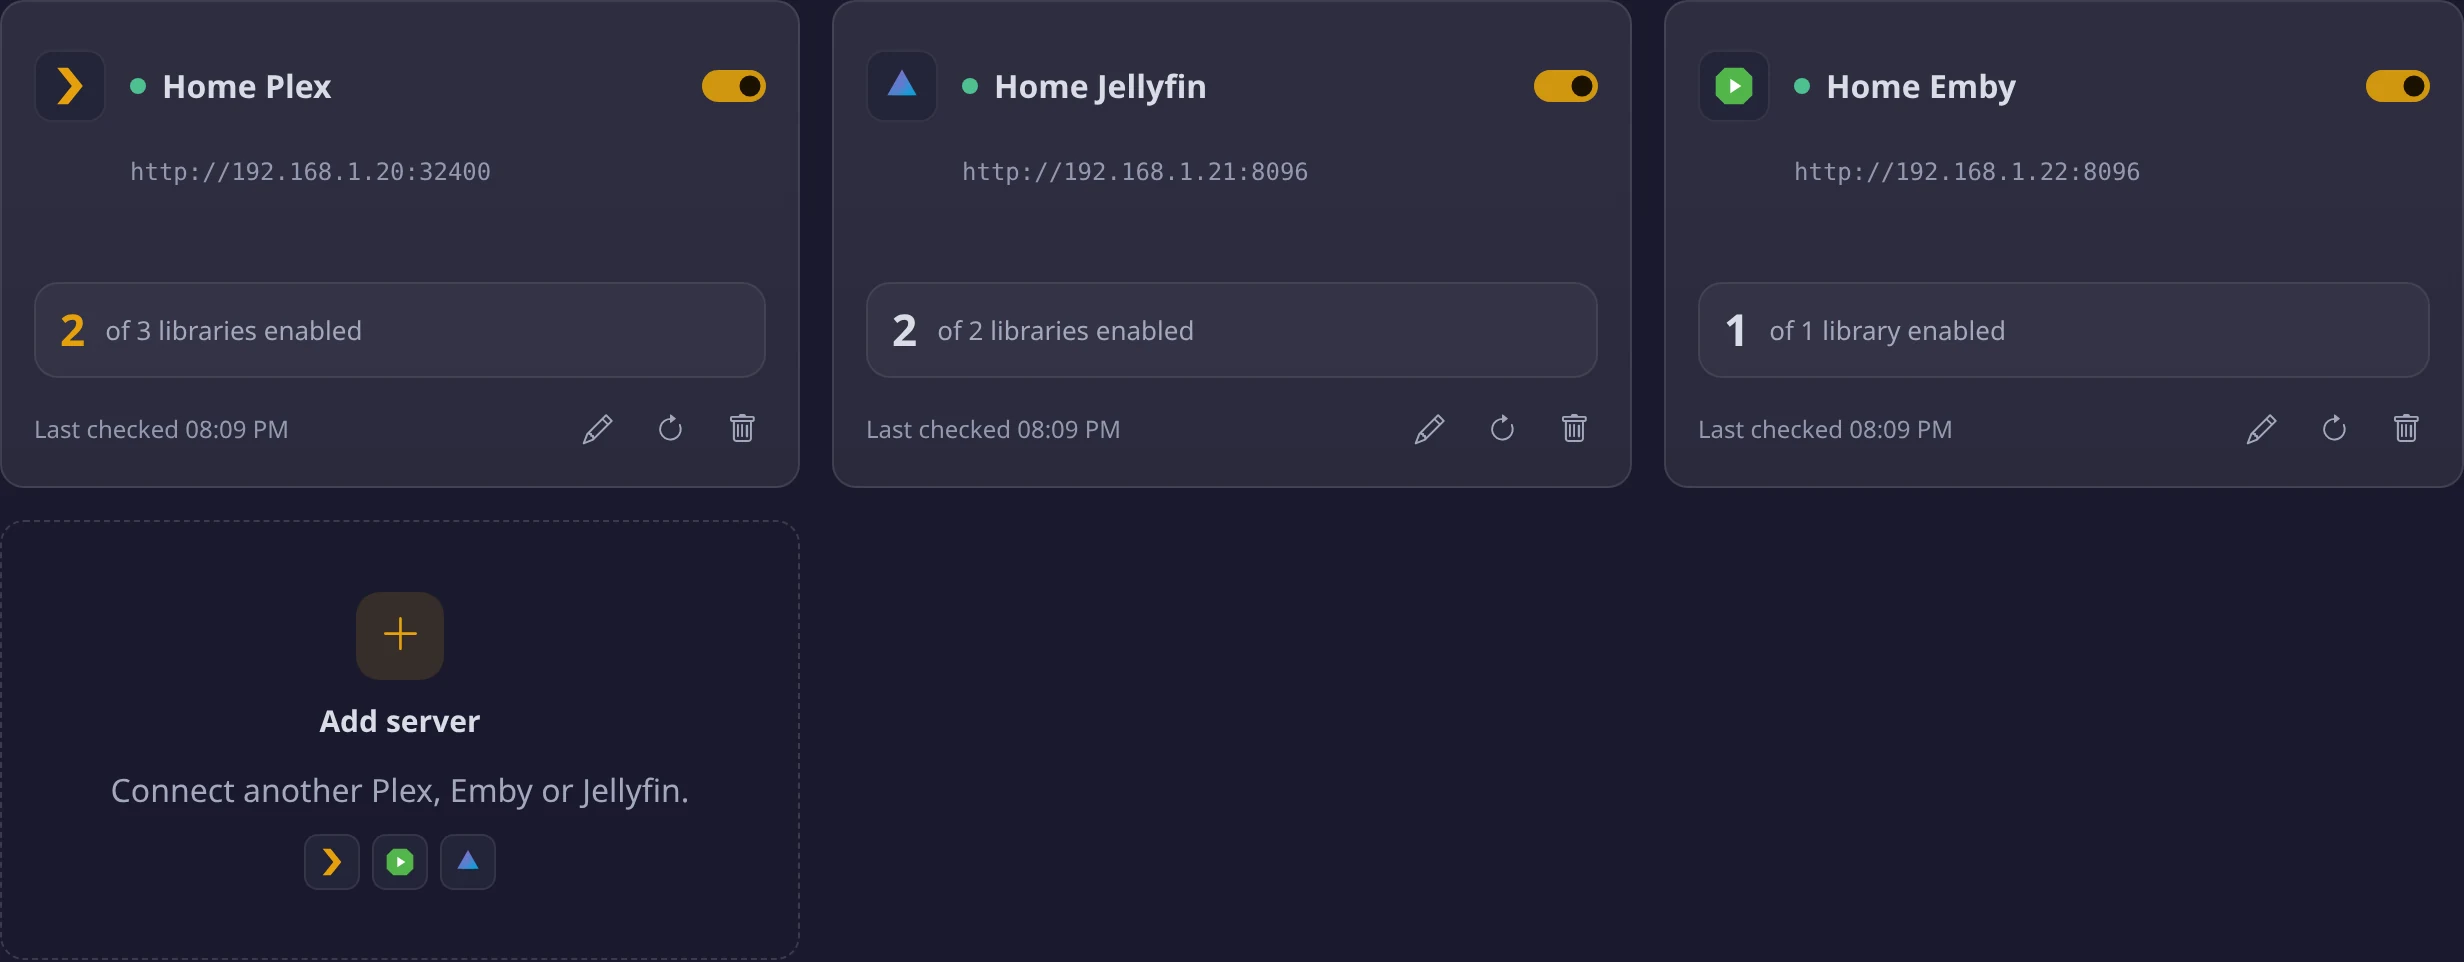
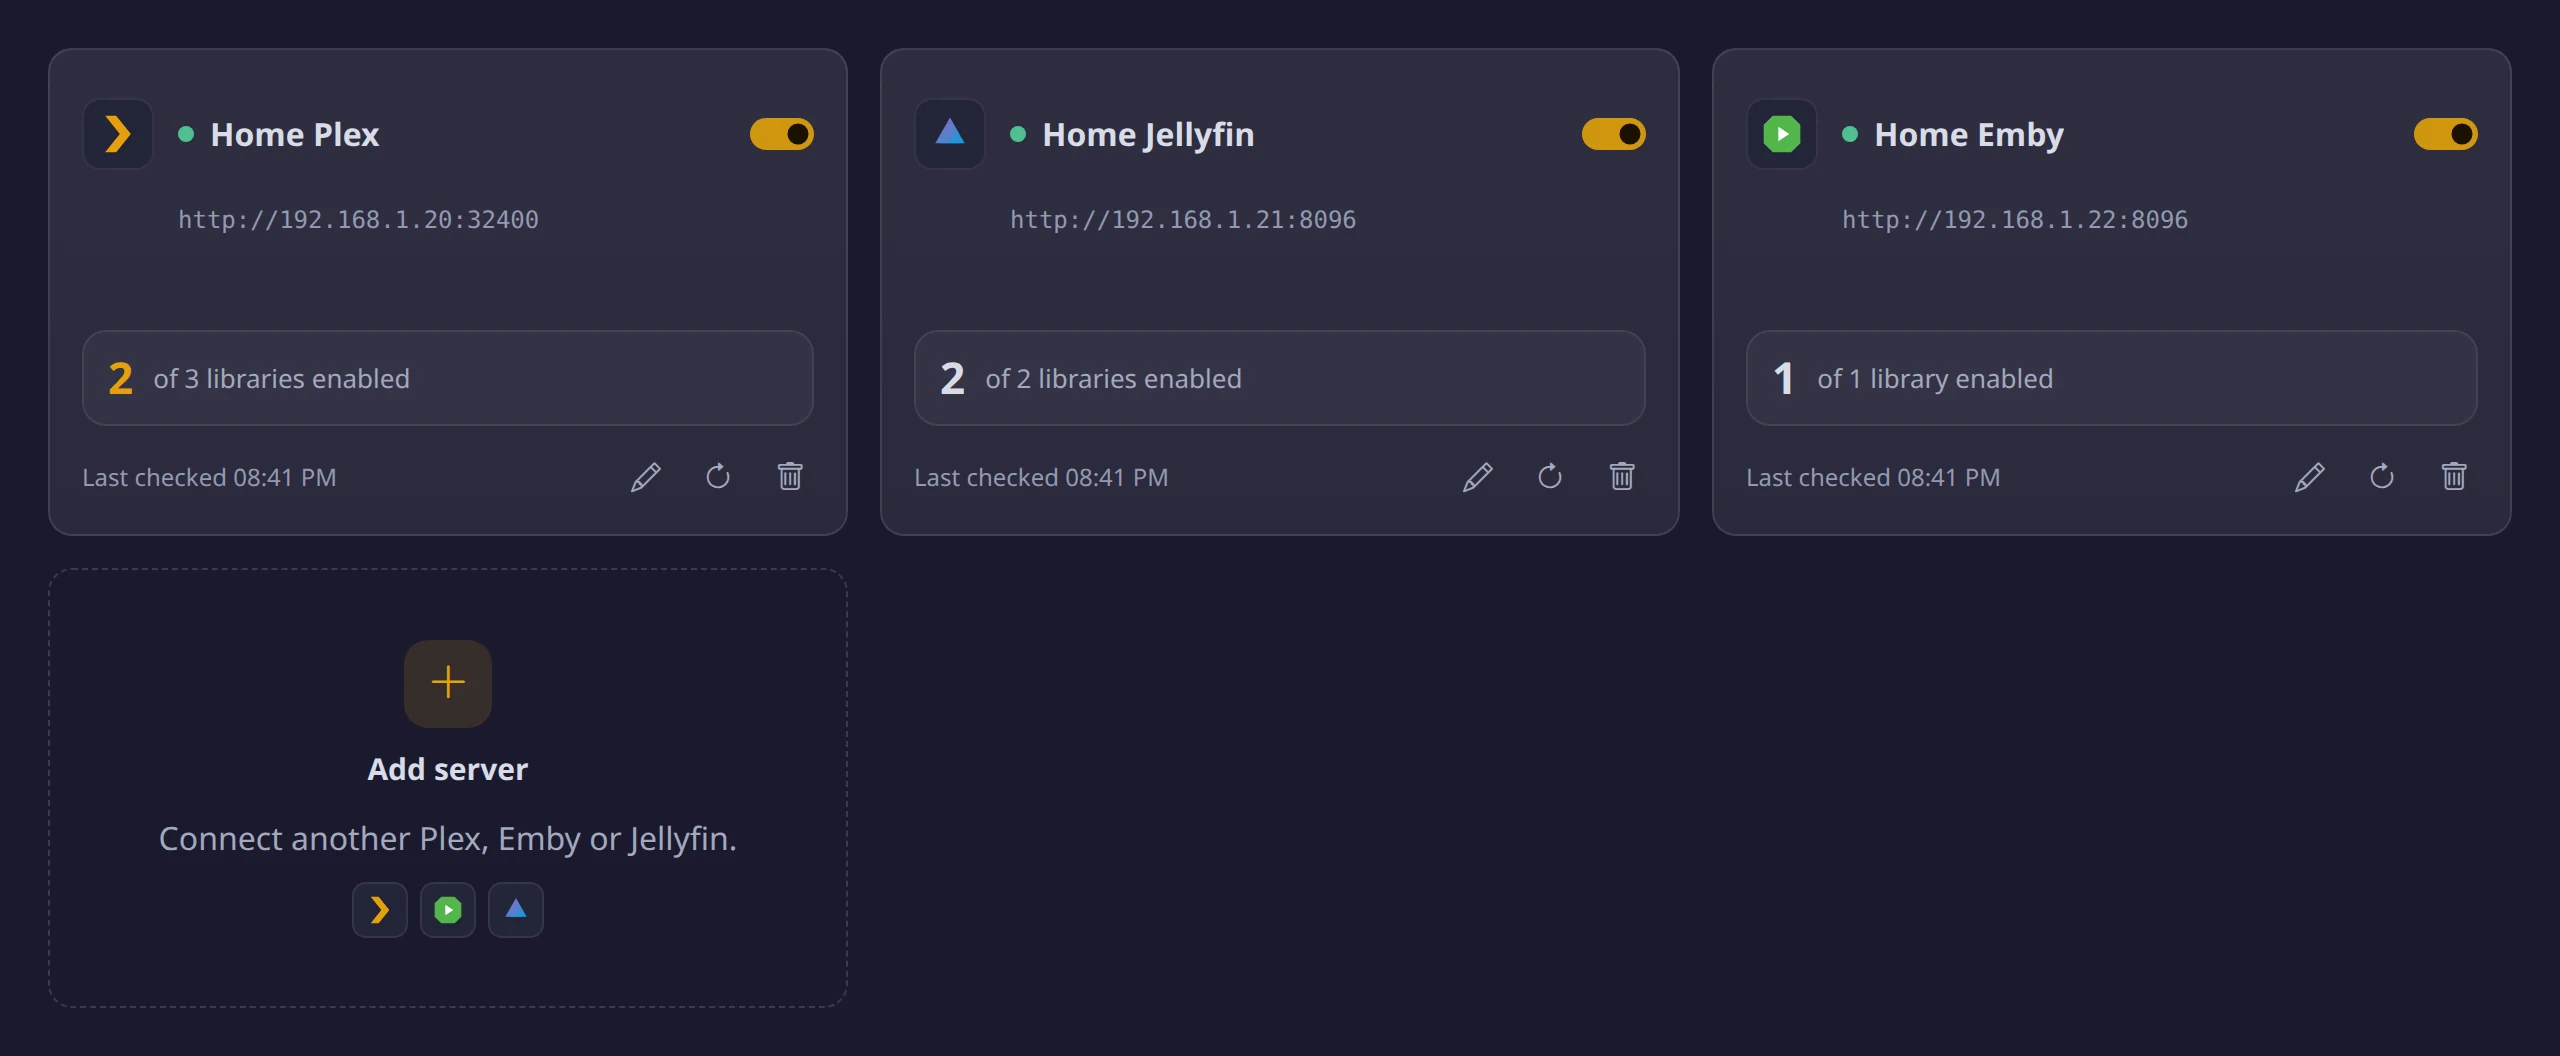
docs: redraw README and site screenshots against the current UI
Padded, same-width captures of the redesigned dashboard (device groups, loudness
progress), jobs queue, job files tab, servers and *arr setup.

diff --git a/tests/e2e/snapshots/regen_readme.py b/tests/e2e/snapshots/regen_readme.py
@@ -228,9 +228,53 @@ def _fake_library_rows(server_id: str | None = None) -> list[dict]:
 # for three films") reads as a real job in flight instead of an idle pool.
 # Matches three of ``readme_fixture.seed_jobs``' single-file jobs.
 BUSY_WORKER_SPECS: list[dict] = [
-    {"current_title": "Tears of Steel (2012)", "library_name": "Movies", "progress_percent": 34.0, "speed": "1.4x"},
-    {"current_title": "Sintel (2010)", "library_name": "Movies", "progress_percent": 61.0, "speed": "1.1x"},
-    {"current_title": "Big Buck Bunny (2008)", "library_name": "Movies", "progress_percent": 82.0, "speed": "1.6x"},
+    {
+        "current_title": "Tears of Steel (2012)",
+        "library_name": "Movies",
+        "progress_percent": 34.0,
+        "speed": "1.4x",
+        "eta": "5m 40s",
+    },
+    {
+        "current_title": "Sintel (2010)",
+        "library_name": "Movies",
+        "progress_percent": 61.0,
+        "speed": "1.1x",
+        "eta": "3m 05s",
+    },
+    {
+        "current_title": "Big Buck Bunny (2008)",
+        "library_name": "Movies",
+        "progress_percent": 82.0,
+        "speed": "1.6x",
+        "eta": "1m 10s",
+    },
+]
+
+
+# Two CPU workers are mid-loudness-analysis so the CPU group looks as busy as the GPU one.
+BUSY_CPU_LOUDNESS_SPECS: list[dict] = [
+    {
+        "current_title": "Elephants Dream (2006)",
+        "library_name": "Movies",
+        "progress_percent": 47.0,
+        "speed": "2.3x",
+        "eta": "3m 20s",
+    },
+    {
+        "current_title": "Cosmos Laundromat (2015)",
+        "library_name": "Movies",
+        "progress_percent": 18.0,
+        "speed": "1.9x",
+        "eta": "6m 05s",
+    },
+    {
+        "current_title": "Spring (2019)",
+        "library_name": "Movies",
+        "progress_percent": 71.0,
+        "speed": "2.1x",
+        "eta": "1m 50s",
+    },
 ]
 
 
@@ -263,6 +307,7 @@ def _fake_worker_statuses() -> list[dict]:
     workers = []
     worker_id = 0
     busy_index = 0
+    cpu_busy_index = 0
     members = [(group, member) for group in FAKE_WORKER_GROUPS for member in group["members"]]
     for group, member in members:
         device_name = next((gpu["name"] for gpu in FAKE_GPUS if gpu["device"] == member["device"]), "CPU")
@@ -273,6 +318,10 @@ def _fake_worker_statuses() -> list[dict]:
                 spec = BUSY_WORKER_SPECS[busy_index]
                 busy_index += 1
                 entry.update(status="processing", ffmpeg_started=True, **spec)
+            elif member["id"] == "cpu" and cpu_busy_index < len(BUSY_CPU_LOUDNESS_SPECS):
+                spec = BUSY_CPU_LOUDNESS_SPECS[cpu_busy_index]
+                cpu_busy_index += 1
+                entry.update(status="processing", ffmpeg_started=True, job_kind="loudness", **spec)
             workers.append(
                 {
                     "worker_id": worker_id,
@@ -425,7 +474,7 @@ def _install_api_stubs(ctx: BrowserContext, current_version: str) -> None:
         data = response.json()
         data["hardware"] = [{k: gpu[k] for k in ("device", "name", "type", "status")} for gpu in FAKE_GPUS]
         data["warnings"] = []
-        busy_by_member = {"gpu-nvidia": len(BUSY_WORKER_SPECS)}
+        busy_by_member = {"gpu-nvidia": len(BUSY_WORKER_SPECS), "cpu": len(BUSY_CPU_LOUDNESS_SPECS)}
         for group_row in data["capacity"]["groups"]:
             group_busy = 0
             for row in group_row.get("members", []):
@@ -464,72 +513,161 @@ def _to_webp(png_path: Path, quality: int = 88, method: int = 6) -> Path:
     return webp_path
 
 
-def _install_retry_job_stub(ctx: BrowserContext) -> None:
-    """Add one job waiting out a retry to the dashboard's job list.
+def _install_queue_job_stub(ctx: BrowserContext) -> None:
+    """Replace the dashboard's job list with four realistic queue rows.
 
-    The retry state lasts minutes in real life and can't be seeded (JobManager turns stored RUNNING
-    rows into FAILED at startup), so the real /api/jobs response is fetched and one job appended.
+    A job waiting out a retry lasts minutes in real life and can't be seeded (JobManager turns stored
+    RUNNING rows into FAILED at startup), so the real /api/jobs response is fetched and its rows swapped
+    for: one running, one retrying, one completed, one pending.
     """
+
+    def job(job_id: str, title: str, status: str, server: tuple[str, str, str], minutes_ago: int, **extra) -> dict:
+        now = datetime.now(UTC)
+        started = (now - timedelta(minutes=minutes_ago)).isoformat()
+        progress = {"percent": 0, "total_items": 1, "processed_items": 0, **extra.pop("progress", {})}
+        config = {"trigger": "webhook", "path_count": 1, **extra.pop("config", {})}
+        return {
+            "id": job_id,
+            "status": status,
+            "paused": False,
+            "library_name": title,
+            "server_id": server[0],
+            "server_name": server[1],
+            "server_type": server[2],
+            "created_at": started,
+            "started_at": started if status in ("running", "completed") else None,
+            "completed_at": (now - timedelta(minutes=minutes_ago - 6)).isoformat() if status == "completed" else None,
+            "progress": progress,
+            "config": config,
+            **extra,
+        }
+
+    plex = ("plex-home", "Home Plex", "plex")
+    jellyfin = ("jellyfin-home", "Home Jellyfin", "jellyfin")
+    emby = ("emby-home", "Home Emby", "emby")
 
     def handle(route) -> None:
         response = route.fetch()
         data = response.json()
         now = datetime.now(UTC)
-        data["jobs"].insert(
-            0,
-            {
-                "id": "retry-demo",
-                "status": "running",
-                "paused": False,
-                "library_name": "Sintel (2010)",
-                "server_id": "jellyfin-home",
-                "server_name": "Home Jellyfin",
-                "server_type": "jellyfin",
-                "created_at": (now - timedelta(minutes=2)).isoformat(),
-                "started_at": (now - timedelta(minutes=2)).isoformat(),
-                "progress": {
-                    "percent": 0,
-                    "total_items": 1,
-                    "processed_items": 0,
-                    "retry_eta": (now + timedelta(seconds=100)).isoformat(),
-                    "retry_wait_total": 120,
-                },
-                "config": {"trigger": "webhook", "is_retry_chain": True, "max_retries": 5, "path_count": 1},
-            },
-        )
+        data["jobs"] = [
+            job("3f9a1c7e", "Tears of Steel (2012)", "running", plex, 3, progress={"percent": 62.0}),
+            job(
+                "b84d02e6",
+                "Sintel (2010)",
+                "pending",
+                jellyfin,
+                4,
+                progress={"retry_eta": (now + timedelta(minutes=4)).isoformat(), "retry_wait_total": 300},
+                config={"is_retry_chain": True, "retry_attempt": 2, "max_retries": 5},
+            ),
+            job(
+                "c61e5a0d",
+                "Big Buck Bunny (2008)",
+                "completed",
+                emby,
+                32,
+                progress={"percent": 100.0, "processed_items": 1, "outcome": {"created": 1, "skipped": 0, "failed": 0}},
+            ),
+            job("7d20f9b3", "Elephants Dream (2006)", "pending", plex, 1),
+        ]
+        data["total"] = len(data["jobs"])
         route.fulfill(response=response, json=data)
 
+    def handle_stats(route) -> None:
+        stats = {"total": 4, "pending": 2, "running": 1, "completed": 1, "failed": 0, "cancelled": 0}
+        route.fulfill(status=200, content_type="application/json", body=json.dumps(stats))
+
     ctx.route(re.compile(r".*/api/jobs\?page="), handle)
+    ctx.route("**/api/jobs/stats", handle_stats)
+
+
+SHOT_PADDING = 24
+SHOT_WIDTH = 1280
+# Hides the sticky navbar and any floating chrome so a clip never includes them.
+HIDE_CHROME_CSS = """
+nav.navbar, .sticky-top, .toast-container, #updateBanner, #whatsNewModal { display: none !important; }
+html, body { scroll-behavior: auto !important; }
+"""
+
+
+def _clip_padded(page: Page, selector: str, out_path: Path, *, full_width: bool = True) -> None:
+    """Screenshot the page region around ``selector``, padded with the page background.
+
+    The clip is cut from the page (not the element), so the padding is the app's own background
+    instead of a hard element edge. ``full_width`` makes every shot the same 1280px width.
+    """
+    page.add_style_tag(content=HIDE_CHROME_CSS)
+    # Blank everything except the target and the elements around it in the tree, so the padding shows only
+    # the page background rather than slivers of neighbouring cards.
+    page.evaluate(
+        """(sel) => {
+            const target = document.querySelector(sel);
+            document.querySelectorAll('body *').forEach((el) => {
+                if (!el.contains(target) && !target.contains(el)) el.style.visibility = 'hidden';
+            });
+        }""",
+        selector,
+    )
+    page.wait_for_timeout(200)
+    box = page.evaluate(
+        """(sel) => {
+            const r = document.querySelector(sel).getBoundingClientRect();
+            return {x: r.left + scrollX, y: r.top + scrollY, w: r.width, h: r.height};
+        }""",
+        selector,
+    )
+    if full_width:
+        x, width = 0.0, float(SHOT_WIDTH)
+    else:
+        x, width = max(box["x"] - SHOT_PADDING, 0.0), box["w"] + 2 * SHOT_PADDING
+    clip = {"x": x, "y": max(box["y"] - SHOT_PADDING, 0.0), "width": width, "height": box["h"] + 2 * SHOT_PADDING}
+    page.screenshot(path=str(out_path), clip=clip, full_page=True, animations="disabled")
+    print(f"[regen_readme] wrote {out_path.name}", file=sys.stderr)
 
 
 def _capture_element(
-    page: Page, app_url: str, path: str, selector: str, out_path: Path, *, ready: str | None = None
+    page: Page,
+    app_url: str,
+    path: str,
+    selector: str,
+    out_path: Path,
+    *,
+    ready: str | None = None,
+    full_width: bool = True,
 ) -> None:
-    """Screenshot one element: one idea per shot, no full-page scrolls."""
+    """Screenshot one element with padding: one idea per shot, no full-page scrolls."""
     page.goto(f"{app_url}{path}", wait_until="domcontentloaded", timeout=15_000)
     page.wait_for_selector(selector, state="visible", timeout=15_000)
     if ready:
         page.wait_for_function(ready, timeout=15_000)
     page.wait_for_timeout(1200)
-    page.locator(selector).first.screenshot(path=str(out_path), animations="disabled")
-    print(f"[regen_readme] wrote {out_path.name}", file=sys.stderr)
+    _clip_padded(page, selector, out_path, full_width=full_width)
 
 
 TOUR_SHOTS = [
-    # (file, app path, element, ready condition)
-    ("tour-trigger", "/automation", "#section-webhooks-sonarr-radarr", None),
-    ("tour-resolve", "/servers", "#serverList", "() => document.querySelectorAll('#serverList .card').length >= 3"),
+    # (file, app path, element, ready condition, full 1280px width)
+    ("tour-trigger", "/automation", "#section-webhooks-sonarr-radarr", None, False),
+    (
+        "tour-resolve",
+        "/servers",
+        "#serverList",
+        "() => document.querySelectorAll('#serverList .card').length >= 3",
+        True,
+    ),
     (
         "tour-extract",
         "/",
         ".card:has(#workerStatusContainer)",
-        "() => !!document.querySelector('#workerStatusContainer .progress')",
+        "() => document.querySelectorAll('#workerStatusContainer .progress').length >= 6",
+        True,
     ),
     (
         "tour-retry",
         "/",
-        ".queue-table-wrap",
+        ".card:has(.queue-table-wrap)",
         "() => /Retry starting/.test(document.getElementById('jobQueue').innerText)",
+        True,
     ),
 ]
 
@@ -540,8 +678,7 @@ def _capture_publish(page: Page, app_url: str, job_id: str, out_path: Path) -> N
     page.click("#filesTab", timeout=15_000)
     page.wait_for_selector("#filesTabPane .badge", state="visible", timeout=15_000)
     page.wait_for_timeout(800)
-    page.locator("#filesTabPane").screenshot(path=str(out_path), animations="disabled")
-    print(f"[regen_readme] wrote {out_path.name}", file=sys.stderr)
+    _clip_padded(page, "#logsModal .modal-content", out_path, full_width=False)
 
 
 def regenerate(out_dir: Path) -> int:
@@ -579,7 +716,7 @@ def regenerate(out_dir: Path) -> int:
                 ctx.add_cookies([cookie])
                 ctx.add_init_script(INIT_SCRIPT)
                 _install_api_stubs(ctx, current_version)
-                _install_retry_job_stub(ctx)
+                _install_queue_job_stub(ctx)
                 page = ctx.new_page()
 
                 # Prime localStorage by visiting any page once; init
@@ -589,9 +726,9 @@ def regenerate(out_dir: Path) -> int:
                 page.wait_for_timeout(500)
 
                 written_pngs = []
-                for name, path, selector, ready in TOUR_SHOTS:
+                for name, path, selector, ready, full_width in TOUR_SHOTS:
                     png_path = out_dir / f"{name}.png"
-                    _capture_element(page, app_url, path, selector, png_path, ready=ready)
+                    _capture_element(page, app_url, path, selector, png_path, ready=ready, full_width=full_width)
                     written_pngs.append(png_path)
 
                 publish_png = out_dir / "tour-publish.png"

diff --git a/DOCKERHUB_README.md b/DOCKERHUB_README.md
@@ -47,15 +47,15 @@ a marker in the Inspector.
 
 | One GPU pass per file |
 | --- |
-| ![Dashboard Workers panel with a GPU workers group (NVIDIA TITAN RTX with three busy workers, Intel UHD Graphics 770 with one idle) beside a CPU workers group with four idle workers](https://raw.githubusercontent.com/stevezau/media_preview_generator/main/docs/images/tour-extract.webp) |
+| ![Dashboard Workers panel: a GPU workers group (NVIDIA TITAN RTX with three workers making previews, Intel UHD Graphics 770 idle) beside a CPU workers group with three workers running Plex loudness analysis with percent, speed and ETA](https://raw.githubusercontent.com/stevezau/media_preview_generator/main/docs/images/tour-extract.webp) |
 
 | Each server gets its own format |
 | --- |
-| ![A job's Files tab: one file marked Generated, with Home Plex, Home Jellyfin and Home Emby listed as its servers](https://raw.githubusercontent.com/stevezau/media_preview_generator/main/docs/images/tour-publish.webp) |
+| ![A completed job's details with the Files tab open: one file marked Generated, with Home Plex, Home Jellyfin and Home Emby listed as its servers](https://raw.githubusercontent.com/stevezau/media_preview_generator/main/docs/images/tour-publish.webp) |
 
 | It waits for slow servers |
 | --- |
-| ![A Jobs queue row for Sintel (2010) showing Retry 0/5 and Retry starting in 2 min](https://raw.githubusercontent.com/stevezau/media_preview_generator/main/docs/images/tour-retry.webp) |
+| ![The Jobs queue with four rows: Tears of Steel running at 62%, Sintel pending with Retry 2/5 and Retry starting in 4 min, Big Buck Bunny completed, and Elephants Dream pending](https://raw.githubusercontent.com/stevezau/media_preview_generator/main/docs/images/tour-retry.webp) |
 
 _App screenshots come from a test setup with made-up servers; the job titles are open films._
 

diff --git a/README.md b/README.md
@@ -69,15 +69,15 @@ a marker in the Inspector.
 
 | One GPU pass per file |
 | --- |
-| ![Dashboard Workers panel with a GPU workers group (NVIDIA TITAN RTX with three busy workers, Intel UHD Graphics 770 with one idle) beside a CPU workers group with four idle workers](docs/images/tour-extract.webp) |
+| ![Dashboard Workers panel: a GPU workers group (NVIDIA TITAN RTX with three workers making previews, Intel UHD Graphics 770 idle) beside a CPU workers group with three workers running Plex loudness analysis with percent, speed and ETA](docs/images/tour-extract.webp) |
 
 | Each server gets its own format |
 | --- |
-| ![A job's Files tab: one file marked Generated, with Home Plex, Home Jellyfin and Home Emby listed as its servers](docs/images/tour-publish.webp) |
+| ![A completed job's details with the Files tab open: one file marked Generated, with Home Plex, Home Jellyfin and Home Emby listed as its servers](docs/images/tour-publish.webp) |
 
 | It waits for slow servers |
 | --- |
-| ![A Jobs queue row for Sintel (2010) showing Retry 0/5 and Retry starting in 2 min](docs/images/tour-retry.webp) |
+| ![The Jobs queue with four rows: Tears of Steel running at 62%, Sintel pending with Retry 2/5 and Retry starting in 4 min, Big Buck Bunny completed, and Elephants Dream pending](docs/images/tour-retry.webp) |
 
 <sub>App screenshots come from a test setup with made-up servers; the job titles are open films.</sub>
 
